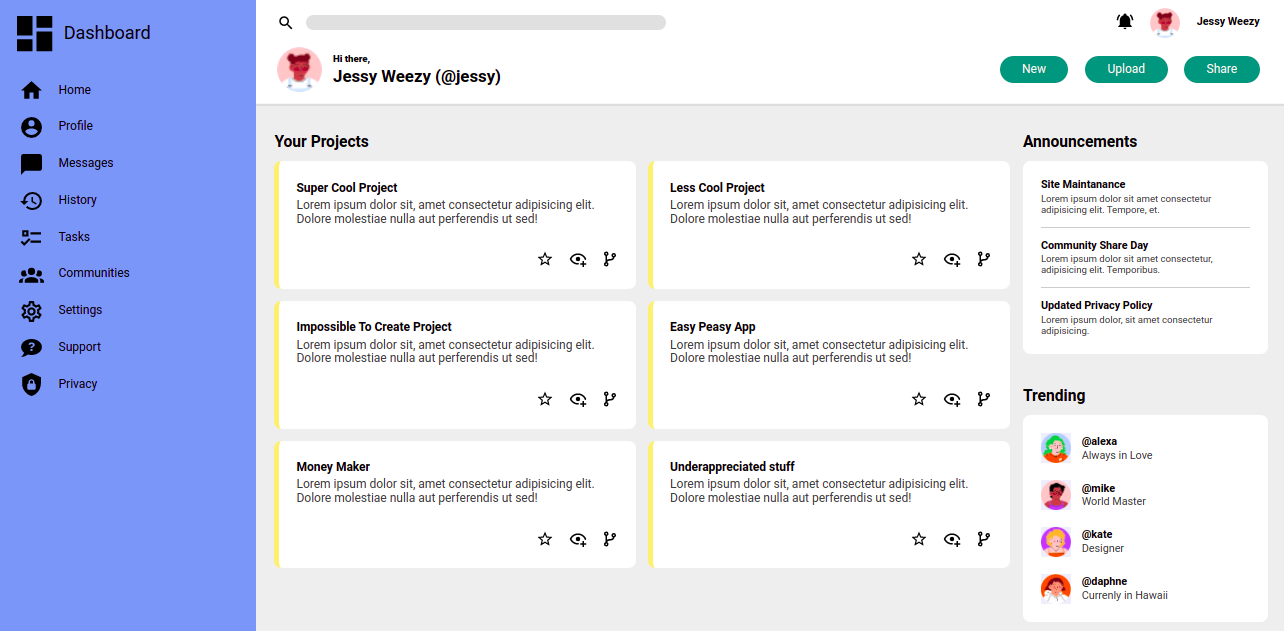
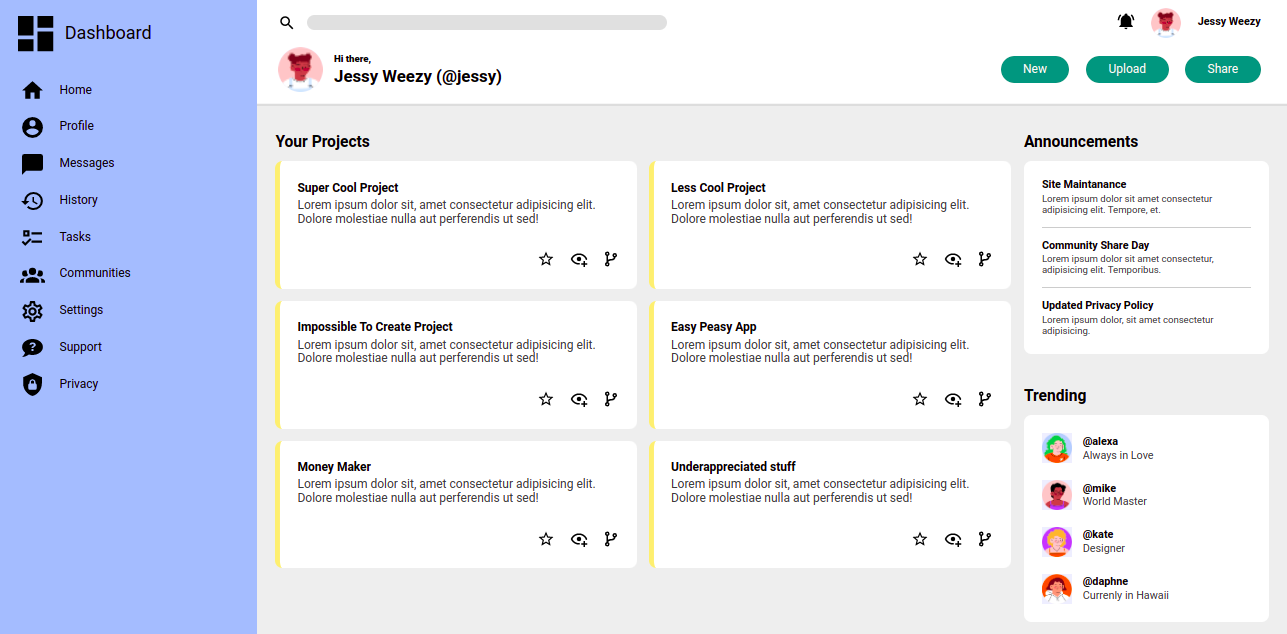
change README

diff --git a/style.css b/style.css
@@ -31,7 +31,7 @@ body {
 .container-sidebar {
   grid-column: 1/2;
   grid-row: 1/3;
-  background-color: #77a6f6;
+  background-color: #a4c6ff;
   min-width: 14rem;
   display: flex;
   flex-direction: column;

diff --git a/README.md b/README.md
@@ -1,3 +1,3 @@
 A small project which was created after completing "Intemediate Html and CSS course" by TOP. Enjoy the dashboard!
 
-![dashboard-project](https://user-images.githubusercontent.com/91738936/167058877-48b22a3a-fc93-4bfb-b8bd-85401ede3aa0.png)
+![Dashboard Project](/dashboard-project.png))
